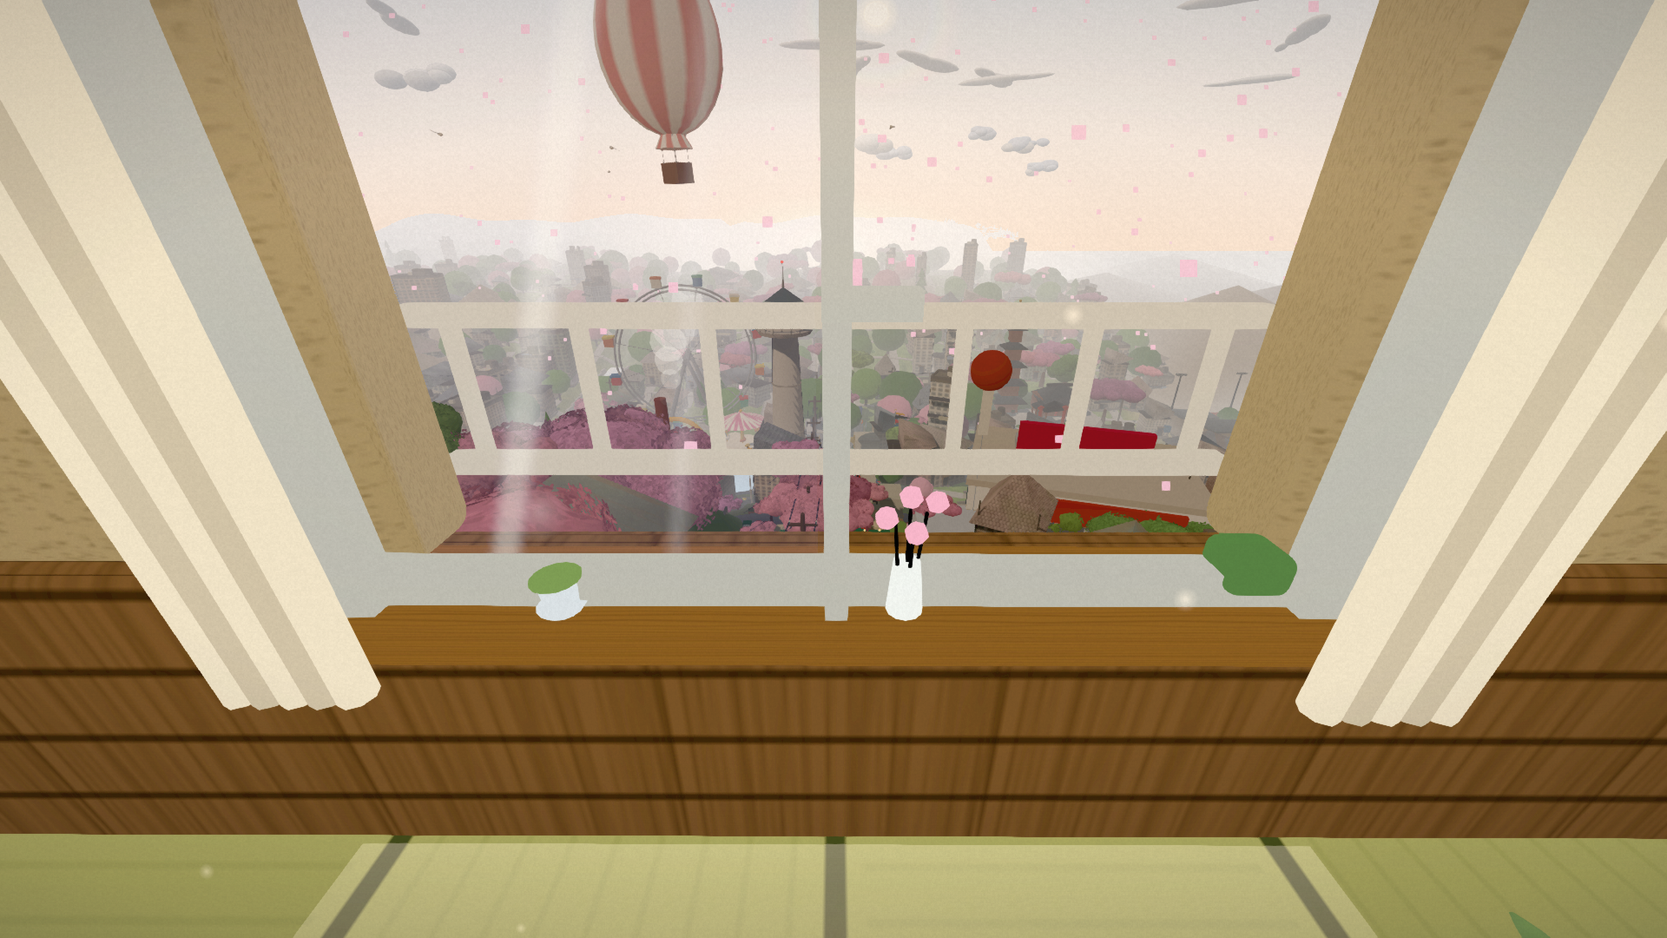
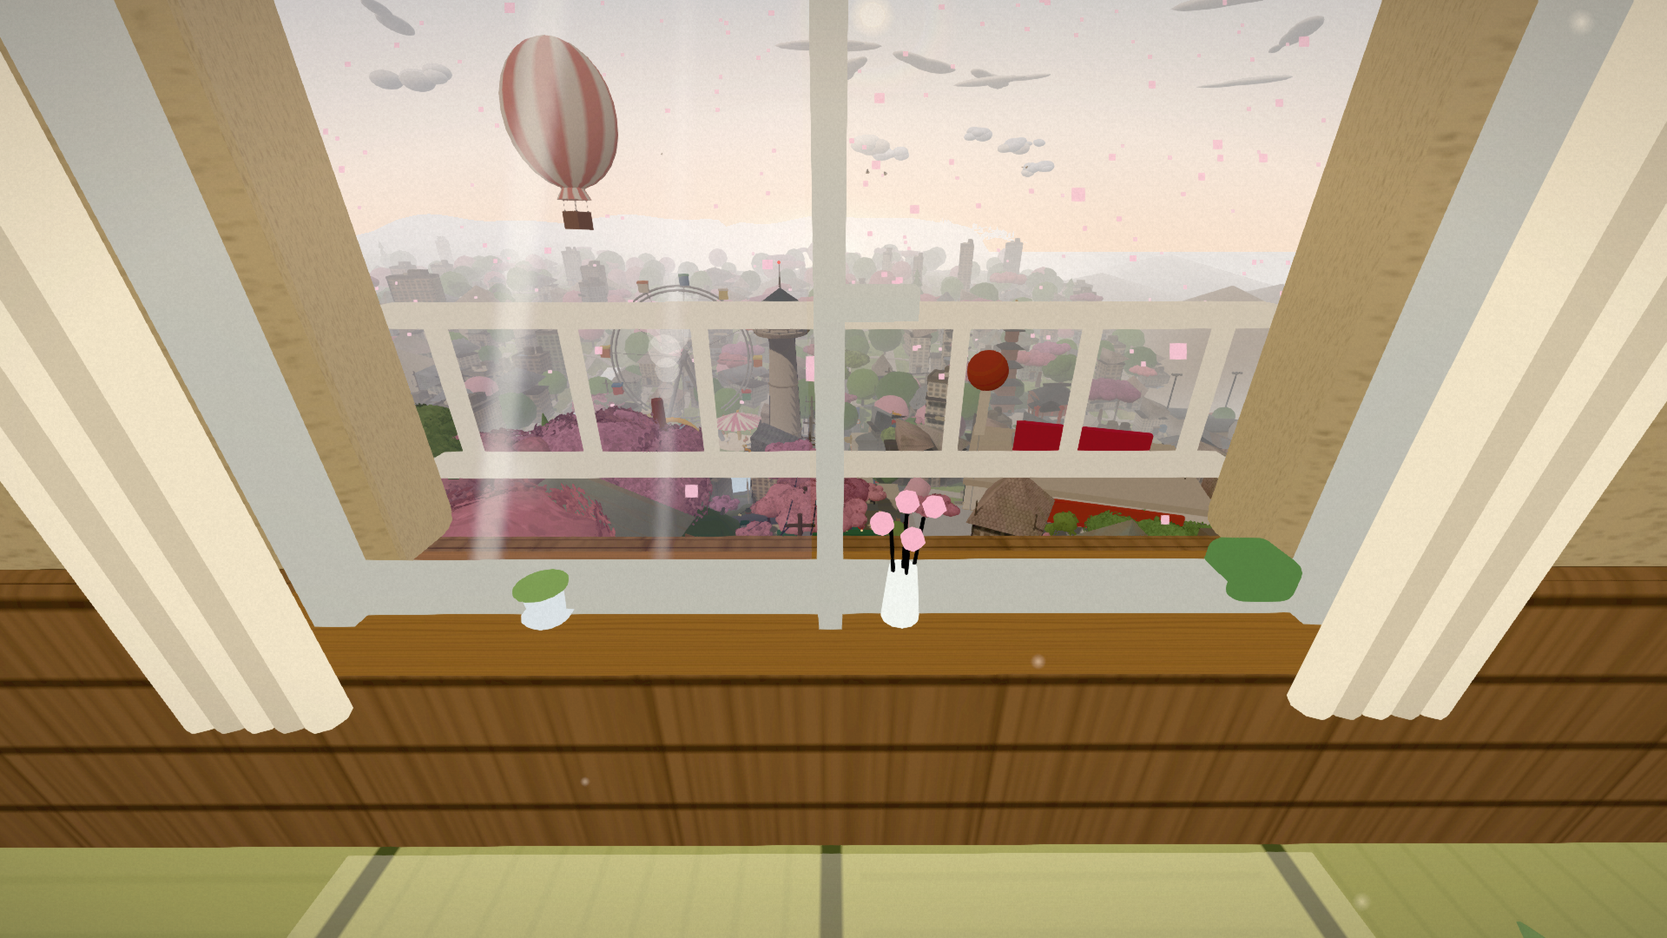
便6: 近くの木の樹冠を不透明の樹冠と葉の板に分けた（切り抜きは葉の板だけ・低空飛行の GPU の時間が前の1.08倍だったため）・KG は前と後のページを同時に開いて交互に測る形に
Claude-Session: https://claude.ai/code/session_01YXMEXwQHH6eCMnDjKH4vuF

diff --git a/src/engine/treeCrown.js b/src/engine/treeCrown.js
@@ -67,7 +67,8 @@ function crownUV(p, uv) {
 }
 
 // 樹冠を作る。bb ={ min: [x,y,z], max: [x,y,z] }（木の中の座標）。withCards で縁の葉の板を挿す。
-// 返す物: { geo, cardTris（葉の板の三角の数） }
+// 返す物: { geo（不透明の樹冠）, cardGeo（葉の板・切り抜きで描く。無ければ null）, cardTris（葉の板の三角の数） }
+// 樹冠と葉の板を分けるのは、切り抜き（透けた所を描かない）の処理を葉の板だけに掛けるため（樹冠ごと切り抜きの材にすると、低空飛行の GPU の時間が前の1.08倍になった・便6）
 export function buildCrown(THREE, sp, bb, seed, withCards) {
   const rnd = mkRand(seed)
   const cx = (bb.min[0] + bb.max[0]) / 2, cz = (bb.min[2] + bb.max[2]) / 2, cy = (bb.min[1] + bb.max[1]) / 2
@@ -109,6 +110,7 @@ export function buildCrown(THREE, sp, bb, seed, withCards) {
   }
   // 縁の葉の板: 房の表面に、外を向く小さな板を挿す。UV は画の右半分（葉の外は透明）
   let cardTris = 0
+  const cards = []
   if (withCards) {
     const o = new THREE.Vector3(), up = new THREE.Vector3(0, 1, 0), side = new THREE.Vector3(1, 0, 0), d = new THREE.Vector3(), m4 = new THREE.Matrix4()
     for (const [px, py, pz, rr] of clumps) {
@@ -123,12 +125,12 @@ export function buildCrown(THREE, sp, bb, seed, withCards) {
         const off = sp === 'sugi' ? rr * 0.95 : rr
         q.translate(px + d.x * off, py + d.y * rr * (sp === 'kasa' ? 0.62 : 1), pz + d.z * off)
         const uv = q.attributes.uv; for (let i = 0; i < uv.count; i++) uv.setXY(i, 0.5 + uv.getX(i) * 0.5, uv.getY(i))
-        parts.push(q); cardTris += 2
+        cards.push(q); cardTris += 2
       }
     }
   }
-  for (const g of parts) { if (g.index) { const ng = g.toNonIndexed(); g.copy(ng); ng.dispose() } }
-  return { geo: mergeAll(THREE, parts), cardTris, cx, cy, cz, rx, ry }
+  for (const g of cards) { const ng = g.toNonIndexed(); g.copy(ng); ng.dispose() }
+  return { geo: mergeAll(THREE, parts), cardGeo: cards.length ? mergeAll(THREE, cards) : null, cardTris, cx, cy, cz, rx, ry }
 }
 
 // 木ごとの色の振れ（明るさ ±18%・黄み〜青み）。杉檜は濃い青緑
@@ -138,8 +140,8 @@ export function crownTint(x, z, sp) {
 }
 
 // 樹冠の頂点色: 上下の陰陽（前と同じ 0.8→1.22）× 樹冠の中ほどの陰 × 葉の塊の濃淡 × 木ごとの色
-export function bakeCrownColors(THREE, crown, tint, sp) {
-  const geo = crown.geo, p = geo.attributes.position, c = new Float32Array(p.count * 3)
+export function bakeCrownColors(THREE, crown, tint, sp, geo = crown.geo) {
+  const p = geo.attributes.position, c = new Float32Array(p.count * 3)
   let minY = Infinity, maxY = -Infinity; for (let i = 0; i < p.count; i++) { const y = p.getY(i); if (y < minY) minY = y; if (y > maxY) maxY = y }
   const span = Math.max(0.001, maxY - minY)
   for (let i = 0; i < p.count; i++) {

diff --git a/src/engine/town3dViewer.js b/src/engine/town3dViewer.js
@@ -3183,9 +3183,11 @@ export async function mountTown3d(parent, opts = {}) {
       const baseM = leafBaseMats[ci], sp = crownSpecies(x, z, baseM.color.r > baseM.color.g * 1.08 && baseM.color.b > baseM.color.g) // 桜（青みのある桃色）だけ。紅葉は青みが無いので樹種を振る（便6 の外の目）
       const cards = leafCards && Math.hypot(x, z) < CARD_R
       const crown = buildCrown(THREE, sp, { min: bmin, max: bmax }, posHash(x, z, 1), cards)
-      bakeCrownColors(THREE, crown, crownTint(x, z, sp), sp) // 上下の陰陽・房の奥の陰・葉の塊の濃淡・木ごとの明るさと黄み〜青み
-      const leafMesh = new THREE.Mesh(crown.geo, crownMat(sp === 'sugi' && greenestLeaf ? greenestLeaf : baseM, cards)); leafMesh.castShadow = true
+      const tint = crownTint(x, z, sp), cm = sp === 'sugi' && greenestLeaf ? greenestLeaf : baseM
+      bakeCrownColors(THREE, crown, tint, sp) // 上下の陰陽・房の奥の陰・葉の塊の濃淡・木ごとの明るさと黄み〜青み
+      const leafMesh = new THREE.Mesh(crown.geo, crownMat(cm, false)); leafMesh.castShadow = true // 樹冠は不透明の材（切り抜きは葉の板だけ）
       leafMesh.userData = { sp, cardTris: crown.cardTris }; g.add(leafMesh)
+      if (crown.cardGeo) { bakeCrownColors(THREE, crown, tint, sp, crown.cardGeo); const cardMesh = new THREE.Mesh(crown.cardGeo, crownMat(cm, true)); cardMesh.userData = { cards: true }; g.add(cardMesh) } // 縁の葉の板（樹冠と一緒に揺れる・影は落とさない）
     }
     g.position.set(x, gy, z); g.scale.setScalar(scale); g.rotation.z = tilt; if (!hidden) town.add(g)
     g.userData = { ph: R() * 6.28, amp: 0.02 + R() * 0.02, tilt }
@@ -9337,6 +9339,7 @@ export async function mountTown3d(parent, opts = {}) {
           const op = Math.max(0.1, Math.min(1, (dc - 1.4) / 2.6)) // 近いほど薄く（真下=ほぼ透明→4uで不透明）
           tr.userData.fadeMat.opacity = op; tr.userData.fadeMat.depthWrite = op > 0.65
         } else if (tr.userData.fadeMat && leaf.material === tr.userData.fadeMat) { leaf.material = tr.userData.origMat } // 遠ざかる/飛行で不透明に戻す
+        const cardM = tr.children[1]; if (cardM) cardM.visible = !(walkFade && dc < 4.4) // 樹冠を薄くする間は縁の葉の板を隠す（便6）
       }
     }
     // 電線のスズメ＝時々ぴょこっと跳ねて尾を振る（窓辺の微小イベント＝静止した影でなく生きた小鳥）。

diff --git a/docs/qa/2026-10-13_便6/計画表.md b/docs/qa/2026-10-13_便6/計画表.md
@@ -12,23 +12,23 @@
 | # | 項目 | 完了の証拠 | 状態 | 実出力 |
 |---|---|---|---|---|
 | 0 | 復元地点のコミット | `git log -1 --format=%h 638da84` | [x] | 638da84（段B で作った復元地点。直す前の git status は git-status-before.txt） |
-| 1 | G0 町の配置が変わらない（樹種と色は位置のハッシュ・R() の消費は前と同じ） | `node scripts/qa-bin6.mjs G0`（gate/G0.json: 北寺尾・谷戸・春の3情景で、町を組み終えた時の乱数の状態・祭りの数・木の数と位置の並びが前と同じ） | [x] | 後（b53f691・全テスト2回目）: 北寺尾 乱数の状態 180856・木200本・位置の並び 3097:3266001436／谷戸 148280・160本／春 49692・198本。3情景とも前と同じ／外し回し: G0-rngGuard（木の揺れの R() を1つ減らす）で落ちた |
-| 2 | T1 樹種の形と色の振れ | `node scripts/qa-bin6.mjs T1`（gate/T1.json: 3樹種がどれも1割以上・丸い広葉樹の中の木ごとの頂点色の明るさの振れが前の3倍以上・春の桜は傘形・秋は紅葉でも3樹種に分かれる（どれも1割以上・半分以下）・低空飛行の木立と丸い木の切り抜きの前との差の平均 ≥ 5）＋画 `docs/確認用スクショ/seasons/2026-10-13_便6/flylow_前.png`・`flylow_後.png` | [x] | 後: 樹種 丸い広葉樹103・傘形45・杉檜52（200本）／丸い広葉樹の中の頂点色の振れ 0.0188→0.1061／春の桜151本はすべて傘形／秋 丸い広葉樹98・傘形54・杉檜54／木立の切り抜きの前との差 13.58・丸い木 13.70／外し回し: T1-species・T1-tint・T1-autumn 落ちた |
-| 3 | T2 葉の模様と縁の葉の板 | `node scripts/qa-bin6.mjs T2`（gate/T2.json: どの樹冠の材も葉の画を持ち、窓から 90m 以内の木だけが切り抜きを持ち葉の板の三角がある・4×4画素にまとめて測る明るさで割った細かな明暗が、低空飛行の木立で前の1.15倍以上。歩く目線の樹冠は記録だけ）＋画 `walk_前.png`・`walk_後.png` | [x] | 後: 葉の画を持つ樹冠 200/200・切り抜きを持つ近くの木 63/63・葉の板の三角 7,712／4×4の細かな明暗 歩く目線の樹冠 1.289→1.874・低空飛行の木立 3.876→5.108／外し回し: T2-atlas・T2-cards 落ちた |
-| 4 | T3 観葉植物を細長い葉17枚の株に | `node scripts/qa-bin6.mjs T3`（gate/T3.json: 20面の玉4つが無く、葉17枚の株がある・部屋の観葉植物の切り抜きの前との差の平均 ≥ 6）＋画 `room_前.png`・`room_後.png` | [x] | 後: 20面の玉 0・葉17枚の株あり／部屋の観葉植物の切り抜きの前との差 15.22（細かな明暗 1.225→1.319）／外し回し: T3-plant 落ちた |
-| 5 | S1 屋根の模様（瓦・トタン・スレート） | `node scripts/qa-bin6.mjs S1`（gate/S1.json: 低空飛行の手前の屋根の細かな明暗 ≥ 前＋0.4）＋画 `flylow_前.png`・`flylow_後.png` | [x] | 後: 手前の屋根の細かな明暗 1.355→2.221（線 1.755）／外し回し: S1-roof 落ちた |
-| 6 | S2 家の壁の模様 | `node scripts/qa-bin6.mjs S2`（gate/S2.json: 低空飛行の左下の窓のある家の壁の、明るさで割った細かな明暗 ≥ 前の1.08倍） | [x] | 後: 壁の明るさで割った細かな明暗 5.006→5.649（線 5.406）／外し回し: S2-wall 落ちた |
-| 7 | S3 地面の模様 | `node scripts/qa-bin6.mjs S3`（gate/S3.json: 公園の上 7m から見下ろした芝の、明るさで割った細かな明暗 ≥ 前の1.1倍）＋画 `lawn_前.png`・`lawn_後.png` | [x] | 後: 芝の明るさで割った細かな明暗 0.920→1.343（線 1.012）／外し回し: S3-ground 落ちた |
-| 8 | S4 中央の通りの模様 | `node scripts/qa-bin6.mjs S4`（gate/S4.json: 歩く目線で木を隠して影を描き直した手前の通りの、4×4画素にまとめて測る明るさで割った細かな明暗 ≥ 前の2倍）＋画 `walk_notree_前.png`・`walk_notree_後.png`＋画 `walk_前.png`・`walk_後.png` | [x] | 後: 4×4の明るさで割った細かな明暗 0.336→1.488（線 0.672）／外し回し: S4-road 落ちた |
-| 9 | FL 動いた時のちらつき | `node scripts/qa-bin6.mjs FL`（gate/FL.json: 低空飛行の眺めをカメラを 0.4m 進めて同じ瞬間に2枚描き、遠くの町の帯の差の平均が前の1.3倍以下） | [x] | 後: 遠くの町の帯の差の平均 3.655→4.277（1.17倍・線 1.3倍）／外し回し: FL-fade は落ちなかった（外しても 4.52。遠くの模様を消す所は検査に結び付いていない） |
-| 10 | G1 守り: 雪・夜・夕方（PC・iPhone）・春・谷戸の窓が沈まない | `node scripts/qa-bin6.mjs G1`（gate/G1.json: 窓の外の帯の明るさの平均が前±8 以内・ほぼ白の割合が前＋0.02 以内） | [x] | 後: 雪 143.6→143.1・夜 42.7→42.8・夕方PC 142.9→143.7・夕方iPhone 129.0→129.9・春 158.2→157.6・谷戸 133.1→132.9（ほぼ白の割合はどれも前と同じか±0.001） |
-| 11 | K5 iPhone の重さ（窓辺・夕方・飛行・歩行） | `node scripts/qa-bin6.mjs K5`（gate/K5.json: 描画の呼び出しと描く画素数が前の1.05倍以下。時間は記録だけ） | [x] | 後（5回の中央値）: 窓辺 1852→1873・夕方 1959→1962・歩行 622→602・画素数は同じ。飛行はこの回だけ 134〜366 と落ち着かず（前 1827）比べになっていない（KT も前後とも1こま約 106ms の、ほかの処理と GPU を取り合っていた時間帯） |
-| 11b | KT iPhone の幅の窓辺の描画の時間（記録だけ） | `node scripts/qa-bin6.mjs KT`（gate/KT.json: 前のコード〈4964〉と後のコードを交互に3回ずつ開いて測った中央値を記録する。判定は 11c） | [x] | 後: 前 106.5ms・後 111.2ms（1.044倍）。前の回は 29.4/29.6（1.007）・31.9/33.1（1.038）・36.1/37.1（1.028） |
-| 11c | KG iPhone の幅の GPU の時間（窓辺・低空飛行） | `node scripts/qa-bin6.mjs KG`（gate/KG.json: GPU の時計で、前のコードと後のコードを交互に5回ずつ開いて測った60こまの中央値が、窓辺と低空飛行のどちらも前の1.05倍以下） | [ ] | |
-| 12 | ビルド | `npm run build`（終了コード 0） | [x] | build exit 0（docs/qa/2026-10-13_便6/build.txt・b53f691） |
-| 13 | 全公開情景のエラー0 | `npm run smoke`（終了コード 0） | [x] | smoke exit 0・SMOKE OK: 31 情景すべてエラー無し（smoke.txt・b53f691） |
+| 1 | G0 町の配置が変わらない（樹種と色は位置のハッシュ・R() の消費は前と同じ） | `node scripts/qa-bin6.mjs G0`（gate/G0.json: 北寺尾・谷戸・春の3情景で、町を組み終えた時の乱数の状態・祭りの数・木の数と位置の並びが前と同じ） | [x] | 後（31400a5・全テスト5回目）: 北寺尾 乱数の状態 180856・木200本・位置の並び 3097:3266001436／谷戸 148280・160本／春 49692・198本。3情景とも前と同じ／外し回し: G0-rngGuard（木の揺れの R() を1つ減らす）で落ちた |
+| 2 | T1 樹種の形と色の振れ | `node scripts/qa-bin6.mjs T1`（gate/T1.json: 3樹種がどれも1割以上・丸い広葉樹の中の木ごとの頂点色の明るさの振れが前の3倍以上・春の桜は傘形・秋は紅葉でも3樹種に分かれる（どれも1割以上・半分以下）・低空飛行の木立と丸い木の切り抜きの前との差の平均 ≥ 5）＋画 `docs/確認用スクショ/seasons/2026-10-13_便6/flylow_前.png`・`flylow_後.png` | [x] | 後: 樹種 丸い広葉樹103・傘形45・杉檜52（200本）／丸い広葉樹の中の頂点色の振れ 0.0188→0.1061／春の桜151本はすべて傘形／秋 丸い広葉樹98・傘形54・杉檜54／木立の切り抜きの前との差 8.21・丸い木 11.40／外し回し: T1-species・T1-tint・T1-autumn 落ちた |
+| 3 | T2 葉の模様と縁の葉の板 | `node scripts/qa-bin6.mjs T2`（gate/T2.json: どの樹冠の材も葉の画を持ち、窓から 90m 以内の木だけが切り抜きを持ち葉の板の三角がある・4×4画素にまとめて測る明るさで割った細かな明暗が、低空飛行の木立で前の1.15倍以上。歩く目線の樹冠は記録だけ）＋画 `walk_前.png`・`walk_後.png` | [x] | 後: 葉の画を持つ樹冠 200/200・切り抜きを持つ近くの木 63/63・葉の板の三角 7,712／4×4の細かな明暗 低空飛行の木立 3.911→5.139（線 4.498）・歩く目線の樹冠（記録）1.811→2.074／外し回し: T2-atlas・T2-cards 落ちた |
+| 4 | T3 観葉植物を細長い葉17枚の株に | `node scripts/qa-bin6.mjs T3`（gate/T3.json: 20面の玉4つが無く、葉17枚の株がある・部屋の観葉植物の切り抜きの前との差の平均 ≥ 6）＋画 `room_前.png`・`room_後.png` | [x] | 後: 20面の玉 0・葉17枚の株あり／部屋の観葉植物の切り抜きの前との差 15.76（細かな明暗 1.228→1.303）／外し回し: T3-plant 落ちた |
+| 5 | S1 屋根の模様（瓦・トタン・スレート） | `node scripts/qa-bin6.mjs S1`（gate/S1.json: 低空飛行の手前の屋根の細かな明暗 ≥ 前＋0.4）＋画 `flylow_前.png`・`flylow_後.png` | [x] | 後（描く細かさ 1.0）: 手前の屋根の細かな明暗 1.401→2.225（線 1.801）／外し回し: S1-roof 落ちた |
+| 6 | S2 家の壁の模様 | `node scripts/qa-bin6.mjs S2`（gate/S2.json: 低空飛行の左下の窓のある家の壁の、明るさで割った細かな明暗 ≥ 前の1.08倍） | [x] | 後: 壁の明るさで割った細かな明暗 4.672→5.700（線 5.046）／外し回し: S2-wall 落ちた |
+| 7 | S3 地面の模様 | `node scripts/qa-bin6.mjs S3`（gate/S3.json: 公園の上 7m から見下ろした芝の、明るさで割った細かな明暗 ≥ 前の1.1倍）＋画 `lawn_前.png`・`lawn_後.png` | [x] | 後: 芝の明るさで割った細かな明暗 1.065→1.365（線 1.172）／外し回し: S3-ground 落ちた |
+| 8 | S4 中央の通りの模様 | `node scripts/qa-bin6.mjs S4`（gate/S4.json: 歩く目線で木を隠して影を描き直した手前の通りの、4×4画素にまとめて測る明るさで割った細かな明暗 ≥ 前の2倍）＋画 `walk_notree_前.png`・`walk_notree_後.png`＋画 `walk_前.png`・`walk_後.png` | [x] | 後: 4×4の明るさで割った細かな明暗 0.317→1.494（線 0.634）／外し回し: S4-road 落ちた |
+| 9 | FL 動いた時のちらつき | `node scripts/qa-bin6.mjs FL`（gate/FL.json: 低空飛行の眺めをカメラを 0.4m 進めて同じ瞬間に2枚描き、遠くの町の帯の差の平均が前の1.3倍以下） | [x] | 後: 遠くの町の帯の差の平均 3.655→4.274（1.17倍・線 1.3倍）／外し回し: FL-fade は落ちなかった（外しても 4.52。遠くの模様を消す所は検査に結び付いていない） |
+| 10 | G1 守り: 雪・夜・夕方（PC・iPhone）・春・谷戸の窓が沈まない | `node scripts/qa-bin6.mjs G1`（gate/G1.json: 窓の外の帯の明るさの平均が前±8 以内・ほぼ白の割合が前＋0.02 以内） | [x] | 後: 雪 143.6→143.3・夜 42.7→42.4・夕方PC 142.9→143.3・夕方iPhone 129.0→129.9・春 158.2→157.7・谷戸 133.1→133.5（ほぼ白の割合はどれも前と同じか±0.001） |
+| 11 | K5 iPhone の重さ（窓辺・夕方・飛行・歩行） | `node scripts/qa-bin6.mjs K5`（gate/K5.json: 描画の呼び出しと描く画素数が前の1.05倍以下。時間は記録だけ） | [x] | 後（5回の中央値）: 窓辺 1852→1870・夕方 1959→1955・歩行 622→604・画素数は同じ。飛行はこの回も 117〜379 と落ち着かず（前 1827）比べになっていない |
+| 11b | KT iPhone の幅の窓辺の描画の時間（記録だけ） | `node scripts/qa-bin6.mjs KT`（gate/KT.json: 前のコード〈4964〉と後のコードを交互に3回ずつ開いて測った中央値を記録する。判定は 11c） | [x] | 記録: 前 109.5ms・後 111.2ms（1.016倍）。前の回は 1.007・1.069・1.038・1.028・1.044・1.183 と振れた（GPU を取り合う時間帯は1こま約 106ms） |
+| 11c | KG iPhone の幅の GPU の時間（窓辺・低空飛行） | `node scripts/qa-bin6.mjs KG`（gate/KG.json: GPU の時計で、前と後のページを同時に開き、測らない方を止めて15こまの慣らしの後に30こまずつ交互に12回測った中央値が、窓辺と低空飛行のどちらも前の1.05倍以下） | [ ] | 不合格（31400a5）: 窓辺 11.099→11.174ms（1.007倍）は合格、低空飛行 8.552→9.243ms（1.081倍）が線 1.05倍を越えた。この回は前 8.38〜8.64・後 9.17〜9.71 と回ごとのぶれが小さく、増えは本物と見ている。葉の板は窓から 90m 以内の木だけにしてある。次の便で部品ごとに切り分けて削る |
+| 12 | ビルド | `npm run build`（終了コード 0） | [x] | build exit 0（docs/qa/2026-10-13_便6/build.txt・本体は b53f691 から変わっていない） |
+| 13 | 全公開情景のエラー0 | `npm run smoke`（終了コード 0） | [x] | smoke exit 0・SMOKE OK: 31 情景すべてエラー無し（smoke.txt） |
 | 14 | 外し回し（直しを1件ずつ外して、その行の検査が落ちる） | `node scripts/qa-bin6-mutate.mjs`（gate/mutate6.json: 外した直しごとに caught true） | [x] | 12件のうち11件が落ちた・戻した後の差なし（gate/mutate6.json）。落ちなかったのは FL-fade の1件 |
-| 15 | 全テスト（最後のコミットで1回） | `node ~/.claude/skills/_shared/zentest.mjs -- node scripts/qa-bin6.mjs all`（最後まで届いた記録） | [x] | 2回目 b53f691・作業ツリーの変更なし: 検査の終わり 12/12 合格・最後まで届いた（zentest_2回目.txt）。1回目 a9c04bf は出力を便フォルダに書いたため作業ツリーの変更1件で始まり 10/12（S3 は芝の切り抜きに人が入った・KT 1.069） |
+| 15 | 全テスト（最後のコミットで1回） | `node ~/.claude/skills/_shared/zentest.mjs -- node scripts/qa-bin6.mjs all`（最後まで届いた記録） | [x] | 5回目 31400a5・作業ツリーの変更なし: 検査の終わり 12/13 合格（13の検査を最後の行まで回した。KG が不合格なので終わりの値は 1。zentest_5回目.txt）。前の回: 1回目 a9c04bf 10/12（作業ツリーの変更1件で始まった）・2回目 b53f691 12/12・3回目 8f2b39d は描く細かさのぶれで S2 が落ちて途中で止めた・4回目 0a9fd33 11/12（KT 1.183） |
 
 ## 決めたこと（担当AI・bin-kata §10-2）
 

diff --git a/docs/qa/裁定記録.md b/docs/qa/裁定記録.md
@@ -105,3 +105,7 @@
 | 2026-10-14 | 決めた事（担当AI） | 便6: K5 の飛行: 最後の全テストの回だけ描画の呼び出しが 134〜366 と落ち着かず（前 1,827）比べになっていない。その前の回では 1,815〜1,819。この回は前も後も窓辺の1こまが約 106ms で、ほかの処理と GPU を取り合っていた | report.json の kimeta |
 | 2026-10-14 | 決めた事（担当AI） | 便6: 遠くの模様を消す所（ちらつき止め）は外しても FL が落ちず、検査に結び付いていない。轍の式と壁の微分の直しも PC の GPU では元から出ないので、検査にも画にも結び付いていない | report.json の kimeta |
 | 2026-10-14 | 決めた事（担当AI） | 便6: 気づき台帳: K3・K4 の経緯にこの便の分を足した（状態は対応中のまま。空と雲・室内・店先は後の便） | report.json の kimeta |
+| 2026-10-14 | 決めた事（担当AI） | 便6: 検査の撮影の前に描く細かさを 1.0 に固定する（飛行中は天井が下がり、重い時は自動で下がるので、回ごとに細かな模様の数がぶれた＝全テスト3回目の S2）。前の画も同じ手順で撮り直した | report.json の kimeta |
+| 2026-10-14 | 決めた事（担当AI） | 便6: 時間の判定は GPU の時計（KG・前と後を交互に5回ずつ・窓辺と低空飛行）にし、KT は記録だけにする（KT は GPU を取り合う時間帯に待ちが入り 1.007〜1.183倍に振れた） | report.json の kimeta |
+| 2026-10-14 | 決めた事（担当AI） | 便6: 低空飛行の GPU の時間が前の 1.081倍（8.552→9.243ms）で線を越えた（窓辺は 1.007倍）。葉の板を近くの木だけにした後も越えているので、本番の問いは「まだ」を推奨にし、次の便で部品ごと（葉の板・樹冠の三角・面の模様）に GPU の時計で切り分けて削る | report.json の kimeta |
+| 2026-10-14 | 裁定待ち | 便6 #1 この便の直しを本番へ出すか（はい／まだ〈推奨〉）。上の「便6 #1」の裁定待ちの推奨を、低空飛行の GPU の時間が線を越えたので「まだ」に改める | 報告 便6 の裁定 #1 |
